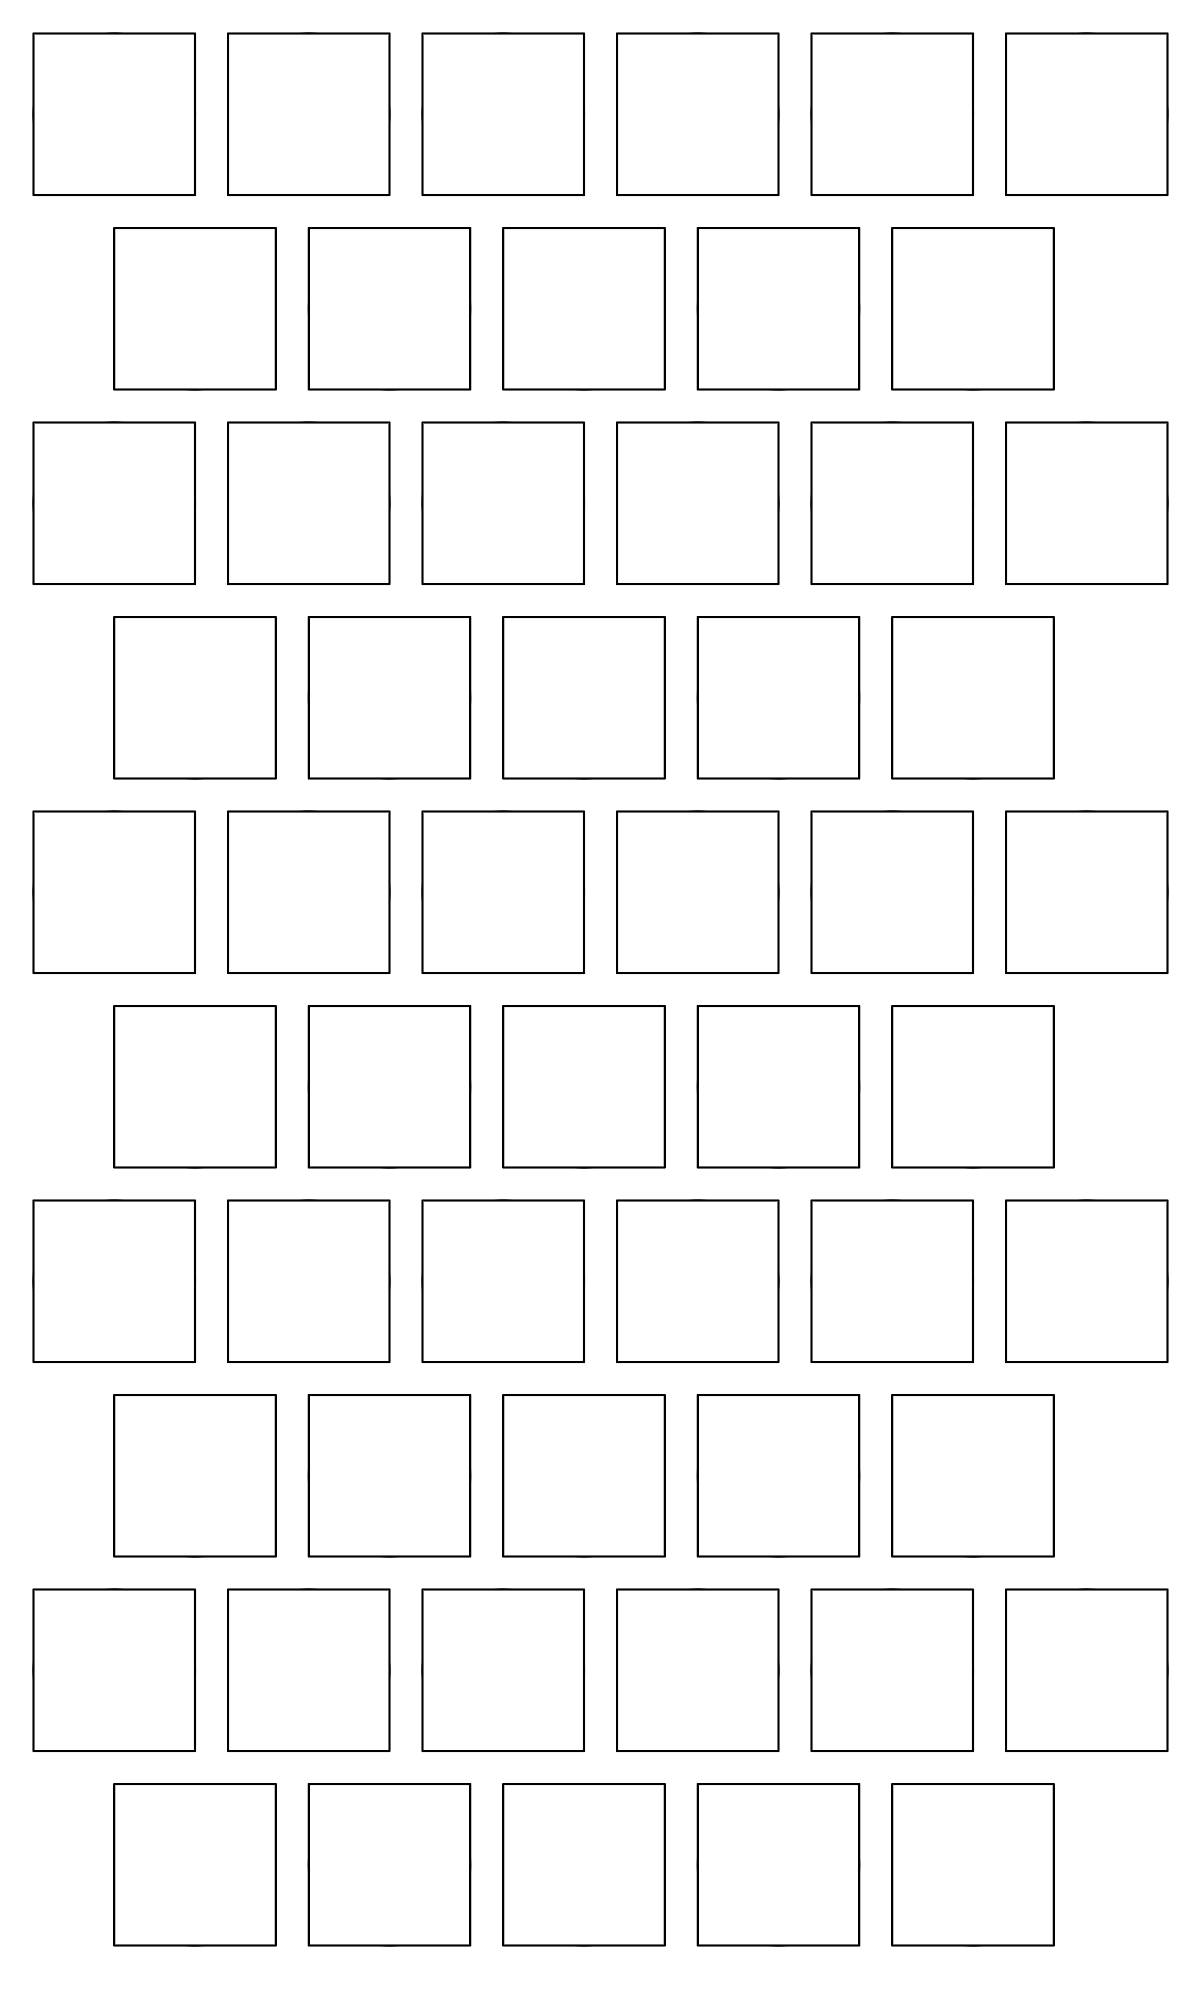
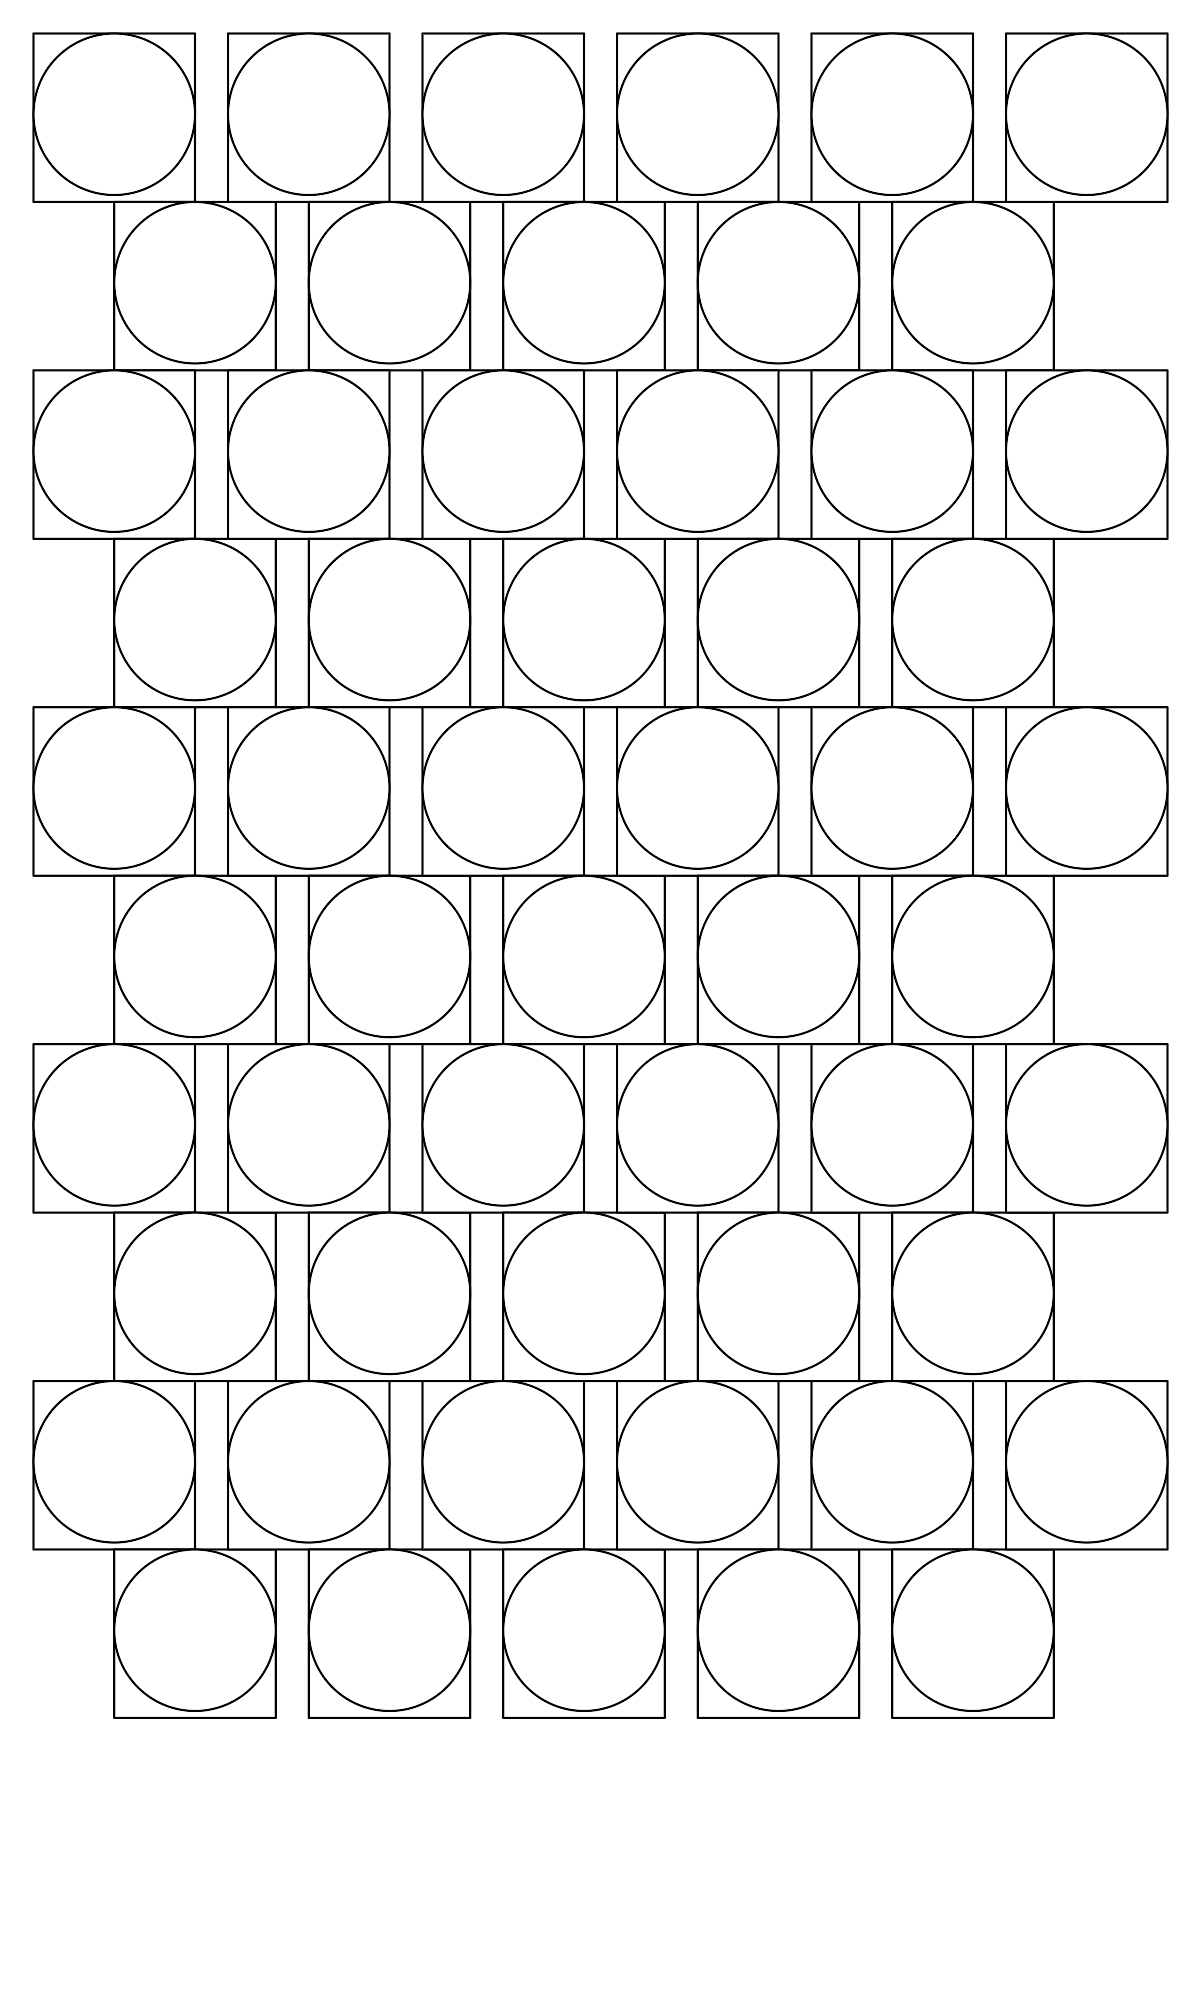
commit

diff --git a/drawing-templates-generator.py b/drawing-templates-generator.py
@@ -11,7 +11,7 @@ from wand.image import PAPERSIZE_MAP
 from wand.drawing import Drawing
 from wand.color import Color
 
-DEBUG = True if os.environ["DEBUG"] else False
+DEBUG = True if os.environ.get("DEBUG") else False
 
 def get_filename_number(filename):
     filename_without_extension = filename.split(".")[0]
@@ -37,25 +37,6 @@ def create_filename(prefix, extension):
     return filename
 
 
-def get_square_geometry(x, y, spacing, square_size, dont_interlace):
-    interlacing_offset = (square_size/2) if (y % 2 == 0) \
-                                            and not dont_interlace else 0
-    left = spacing * x + (x-1)*square_size + interlacing_offset
-    #  left = spacing * x + (x-1)*square_size
-    top = spacing * y + (y-1)*square_size
-    right = spacing * x + interlacing_offset + (x)*square_size  # FIXME: ioffset order
-    bottom = spacing * y + (y)*square_size
-
-    geometry = dict(
-            left=left,
-            top=top,
-            right=right,
-            bottom=bottom
-            )
-
-    return geometry
-
-
 def get_line_size(square_size, spacing, equidistant):
 
     if equidistant:
@@ -73,6 +54,42 @@ def get_line_size(square_size, spacing, equidistant):
     return line_size
 
 
+def get_square_geometry(x, y, spacing, square_size, dont_interlace,
+                        equidistant):
+    line_size = get_line_size(square_size=square_size, spacing=spacing,
+                              equidistant=equidistant)
+
+    interlacing_offset = (square_size/2) if (y % 2 == 0) \
+                                            and not dont_interlace else 0
+    left = spacing * x + (x-1)*square_size + interlacing_offset
+    #  left = spacing * x + (x-1)*square_size
+    #  top = spacing * y + (y-1)*square_size
+    if equidistant:
+        #  top = (y-1) * line_size
+        #  top = spacing if (y == 0) else ((y-1) * line_size)
+        #  top = spacing if (y == 1) else ((y-1) * line_size)
+        top = spacing + (y-1)*line_size
+        #  top = spacing * y + (y-1)*line_size
+    else:
+        top = spacing * y + (y-1)*square_size
+
+    right = spacing * x + interlacing_offset + (x)*square_size  # FIXME: ioffset order
+    #  bottom = spacing * y + (y)*square_size
+    if equidistant:
+        bottom = spacing + (y)*line_size
+    else:
+        bottom = spacing * y + (y)*square_size
+
+    geometry = dict(
+            left=left,
+            top=top,
+            right=right,
+            bottom=bottom
+            )
+
+    return geometry
+
+
 def get_circle_geometry(x, y, spacing, square_size, dont_interlace,
                         equidistant):
     line_size = get_line_size(square_size=square_size, spacing=spacing,
@@ -84,7 +101,11 @@ def get_circle_geometry(x, y, spacing, square_size, dont_interlace,
     #  top = spacing * y + (y-1)*square_size
     #  top = spacing * y + (y-1)*line_size
     if equidistant:
-        top = (y-1) * line_size
+        #  top = (y-1) * line_size
+        #  top = spacing if (y == 0) else ((y-1) * line_size)
+        #  top = spacing if (y == 1) else ((y-1) * line_size)
+        top = spacing + (y-1)*line_size
+        #  top = spacing * y + (y-1)*line_size
     else:
         top = spacing * y + (y-1)*square_size
 
@@ -152,7 +173,9 @@ def draw_and_write(width, height, spacing, columns, resolution, shape,
                                square_size=square_size)
 
             if shape == "square":
-                square_geometry = get_square_geometry(**square_data)
+                square_geometry = get_square_geometry(**square_data,
+                                                      dont_interlace=dont_interlace,
+                                                      equidistant=equidistant)
                 draw.rectangle(**square_geometry)
 
             elif shape == "circle":
@@ -164,7 +187,8 @@ def draw_and_write(width, height, spacing, columns, resolution, shape,
                                                       equidistant=equidistant)
                 if DEBUG:
                     square_geometry = get_square_geometry(**square_data,
-                                               dont_interlace=dont_interlace)
+                                               dont_interlace=dont_interlace,
+                                                          equidistant=equidistant)
                     draw.rectangle(**square_geometry)
                 draw.circle(**circle_geometry) # origin, perimeter
 
